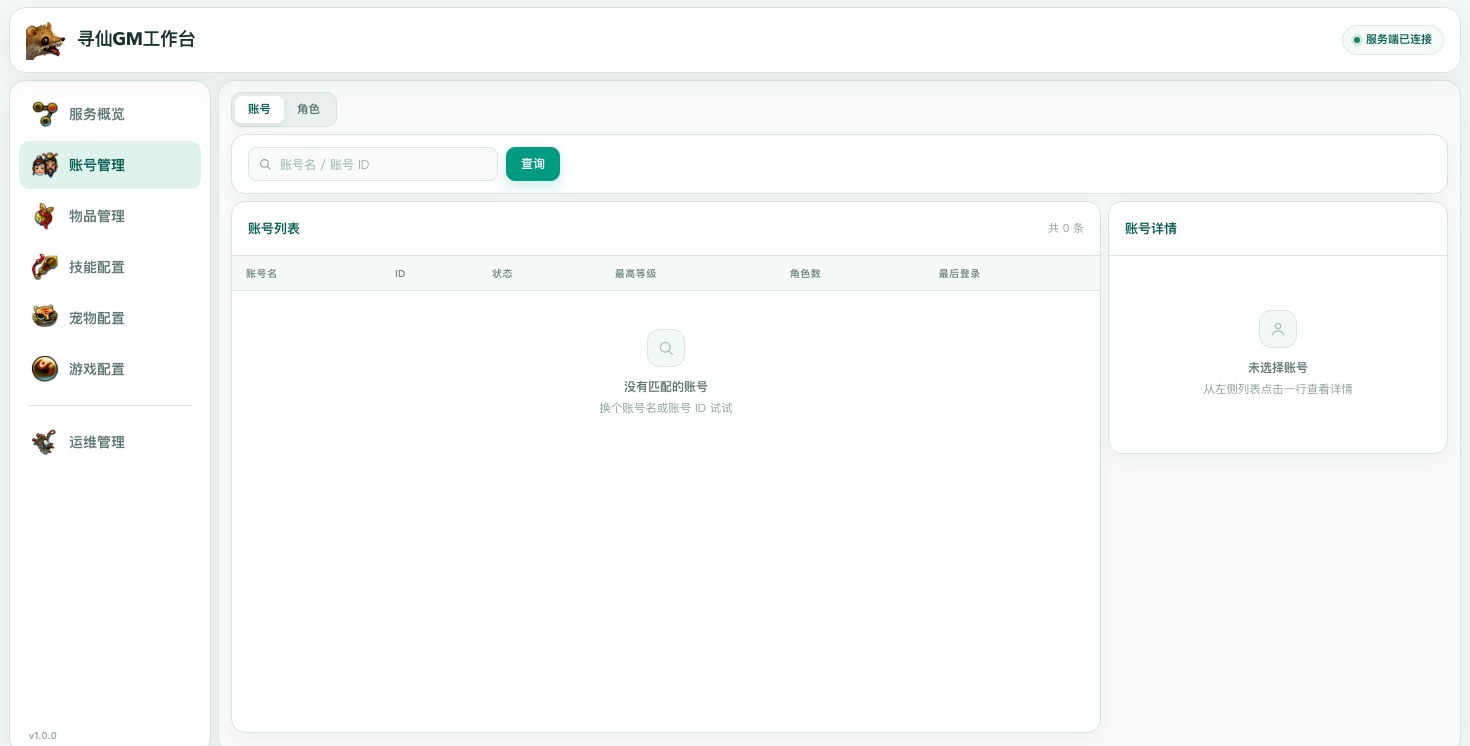
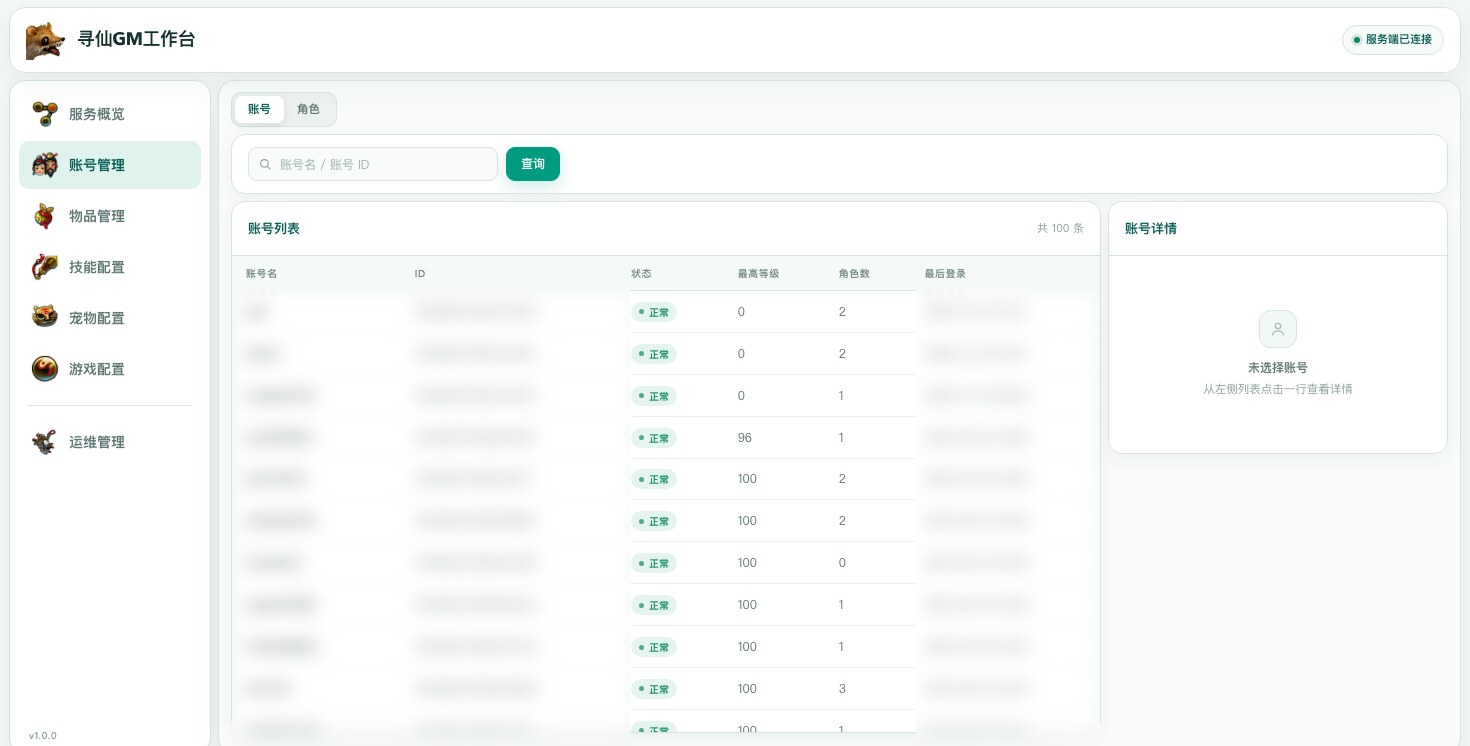
Refresh screenshots with loaded workbench data

diff --git a/README.md b/README.md
@@ -4,6 +4,8 @@
 
 ## 工作台截图
 
+截图在页面数据载入完成后截取；账号标识和连接用户名已模糊处理。
+
 ### 服务概览
 
 ![工作台服务概览](doc/screenshots/dashboard.jpg)
